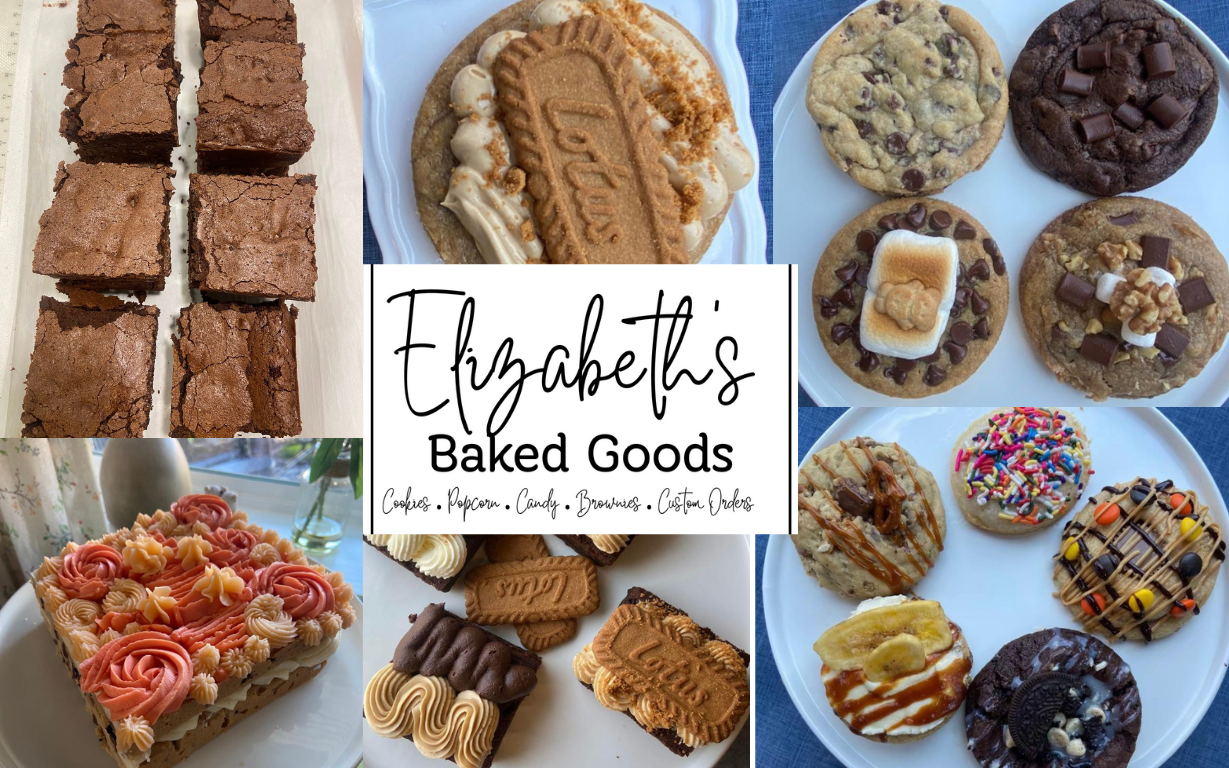
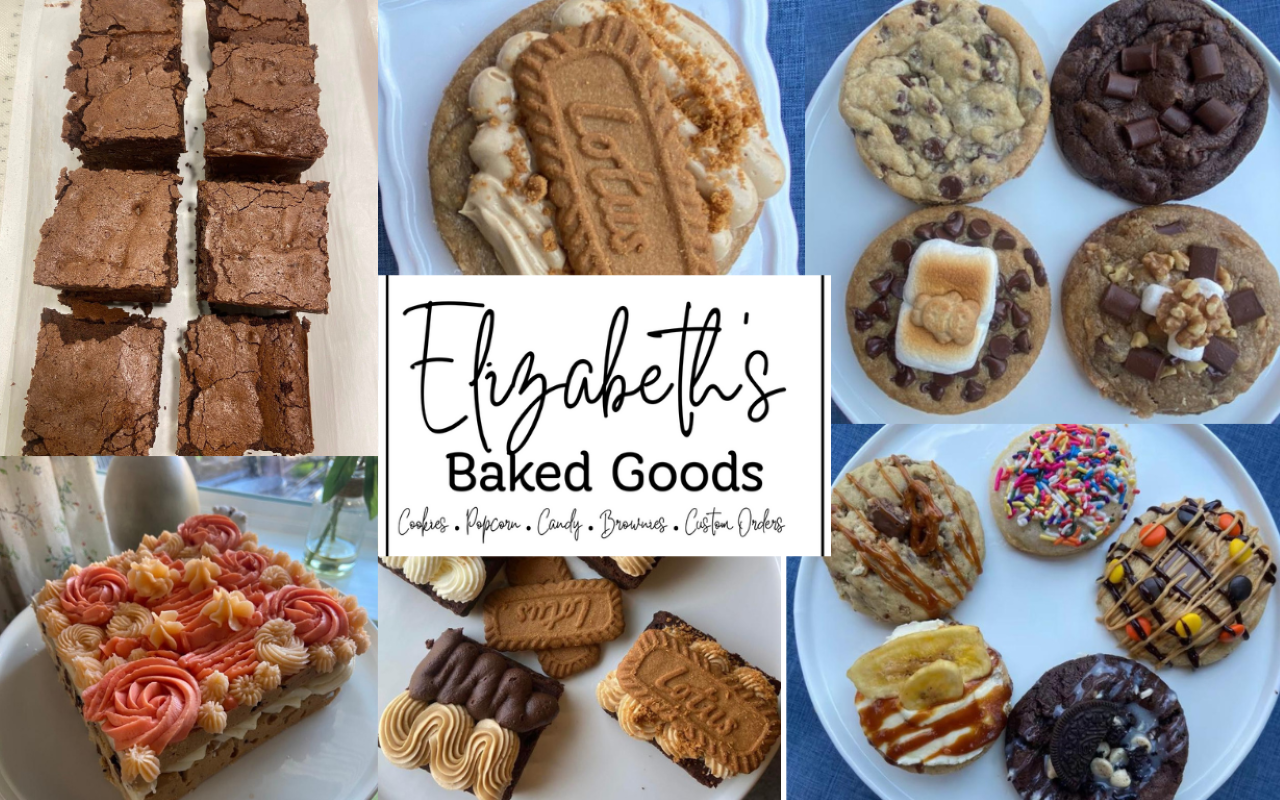
Update site

Changed region(s): [[0.371, 0.375, 0.6493, 0.5938], [0.3092, 0.5312, 0.4638, 0.6562], [0.4947, 0.5625, 0.6184, 0.6875]]

diff --git a/index.html b/index.html
@@ -38,15 +38,13 @@
             }
         }
         @media (max-width: 768px) {
-            .hero-image {
-                max-width: 768px;
-                margin: 0 auto;
+            .hero-image img {
+                max-height: 280px;
             }
         }
         @media (max-width: 480px) {
-            .hero-image {
-                max-width: 480px;
-                margin: 0 auto;
+            .hero-image img {
+                max-height: 240px;
             }
         }
     </style>
@@ -67,7 +65,7 @@
 
 <!-- ================= HERO IMAGE SECTION ================= -->
 <section class="hero-image" style="width: 100%; padding: 0; margin: 0; position: relative; display: block; background-color: #fff;">
-    <img src="/images/topimage.png" alt="Assorted custom desserts including brownies, cookies, and cupcakes from Elizabeth's Baked Goods." style="display: block; width: 100%; height: auto; max-width: 100%; margin: 0; padding: 0; image-rendering: -webkit-optimize-contrast; image-rendering: crisp-edges; will-change: transform;">
+    <img src="/images/topimage.png" alt="Assorted custom desserts including brownies, cookies, and cupcakes from Elizabeth's Baked Goods." style="display: block; width: 100%; height: auto; max-width: 100%; max-height: 320px; margin: 0; padding: 0; image-rendering: -webkit-optimize-contrast; image-rendering: crisp-edges;">
 </section>
 
 <!-- ================= CONTENT BLOCK BELOW IMAGE ================= -->
